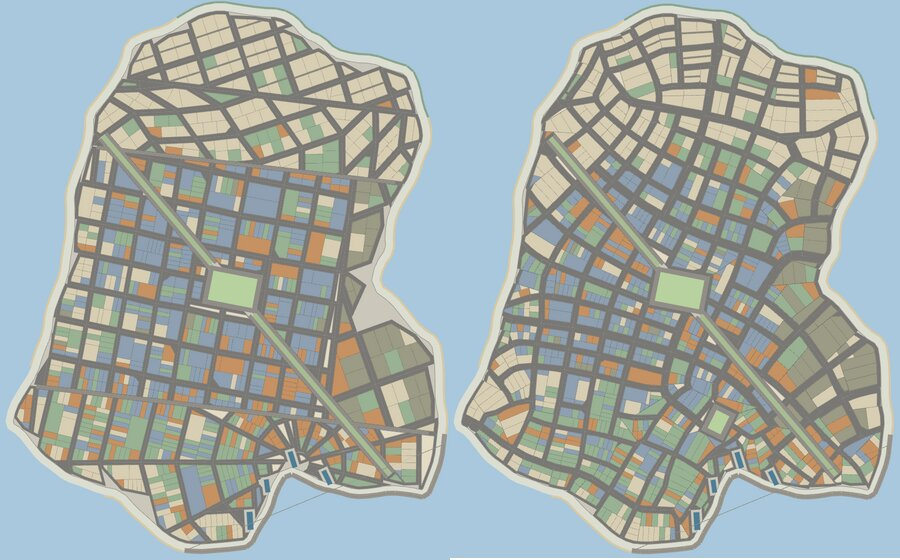
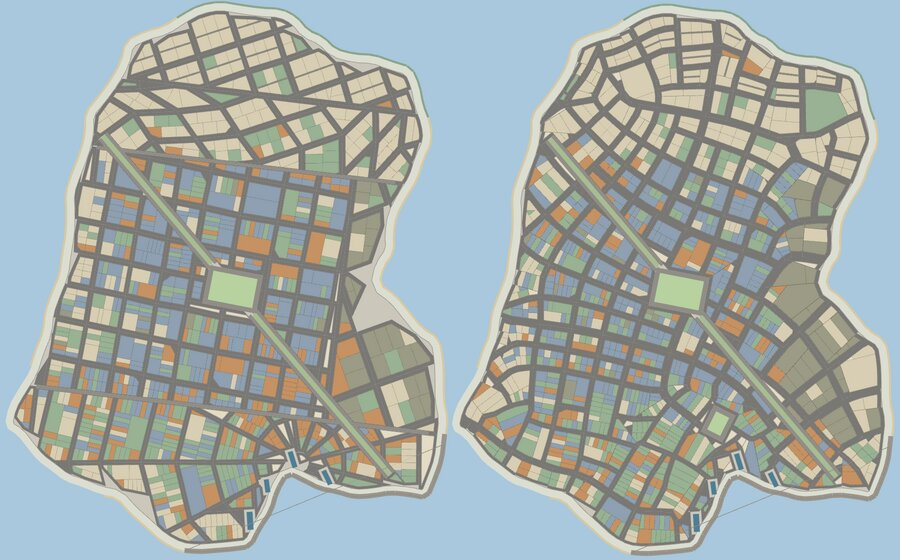
Natural streets: one name per traced street, addresses along it; needle blocks and lots squared off
- each traced street is named once end to end (arterials take the avenue
  names); every lot is addressed on the street it fronts, numbered rising
  away from the landing, odd left / even right, no address repeated;
- a block point under 45 degrees is cut square where 18 m across and paved
  as a traffic island (cell and inset), and a needle lot at a row's slanted
  end merges into its neighbour. Six seeds: natural blocks with a corner
  under 30 degrees 24 -> 0, such lots 57 -> 11 (classic 100).
Classic byte-identical (hash proof re-run).

Claude-Session: https://claude.ai/code/session_01BSvUYUkZGsrMRDvk2r2obY

Changed region(s): [[0.4978, 0.0911, 1.0, 1.0], [0.7778, 0.0304, 0.8089, 0.0607]]

diff --git a/broadway-and-wall/CITYGEN_NEXT_PLAN.md b/broadway-and-wall/CITYGEN_NEXT_PLAN.md
@@ -79,6 +79,16 @@ other planned districts). **Slivers are merged**: a graph face under 40% of the 
 or narrower than 30 m on average is merged into the neighbour it shares the most street
 with (the street between them is not built), never across the shore or a square.
 
+**Street names.** Each traced street is named once, end to end: arterials take the island's
+avenue names, longest first; other streets a name from the pool of the district their
+middle runs through; no name twice. A lot's address is the street its longest kerb-line
+edge faces (else its nearest named street) and a number along it, rising away from the
+landing, two numbers per 2.2 m (a hundred to a ~110 m block), odd left, even right; no
+address repeats. **Needles.** Where streets cross under 45 degrees the block's point is cut
+off square where it is 18 m across and paved as a traffic island (also on the inset, where
+unequal half-streets can make a new point), and a needle lot at the slanted end of a row is
+merged into its neighbour.
+
 **Party lines.** A face too concave to be one convex block is cut into convex pieces only
 because the lot cutter wants convex blocks; the cut is a party line between two halves of
 one block, so it pays no street, and a half whose long side is that line is platted as one
@@ -124,18 +134,21 @@ Seed 481923 "Stancliff Landing":
 
 Measured on the prototype (City size; `tools/platlib.mjs`):
 
-| seed | lots classic | lots natural | change | lot area classic → natural (M sf) |
-|---|---|---|---|---|
-| 2967923640 | 951 | 1030 | +8% | 7.88 → 7.99 (+1%) |
-| 1 | 1453 | 1396 | -4% | 7.33 → 7.99 (+9%) |
-| 20261 | 1384 | 1186 | -14% | 8.71 → 9.34 (+7%) |
-| 555 | 1191 | 1143 | -4% | 7.90 → 8.88 (+12%) |
-| 3252 | 1076 | 1055 | -2% | |
-| 481923 | 999 | 978 | -2% | |
-| 2967923640 Great City | 3876 | 4196 | +8% | |
+| seed | lots classic | lots natural | change |
+|---|---|---|---|
+| 2967923640 | 951 | 1047 | +10% |
+| 1 | 1453 | 1440 | -1% |
+| 20261 | 1384 | 1124 | -19% |
+| 555 | 1191 | 1142 | -4% |
+| 3252 | 1076 | 1048 | -3% |
+| 481923 | 999 | 981 | -2% |
+| 2967923640 Great City | 3876 | 4218 | +9% |
 
-`test/plat.mjs` on its twelve pinned seeds (City): lots 13,257 classic → 12,816 natural
-(-3%); sliver 0% and spikes 0% in both; street share (pavement per unit of block) median
+Sharp corners (interior angle under 30 degrees), six seeds above: natural blocks 24 → 0
+after the needle rule; lots 57 → 11 natural (classic: 100).
+
+`test/plat.mjs` on its twelve pinned seeds (City): lots 13,257 classic → 12,632 natural
+(-5%); sliver 0% and spikes 0% in both; street share (pavement per unit of block) median
 1.61 classic → 1.48 natural; largest unprogrammed void the same (a park apron, 14,943 m2).
 Land use still follows demand: in the top 15% of lots by demand, office is 51% / 40% / 54%
 of lots on seeds 2967923640 / 555 / 1 (classic 44% / 40% / 48%), and the town's office
@@ -176,7 +189,5 @@ at the shore than classic. Generation takes ~1.5x as long (0.8-1.6 s per City is
   (owner's call), so "water crossings" is a no-op today; the field has a creek basis ready.
 - **Small/odd blocks** near converging streets and a wiggly shore; the wedge rule and the
   gore rule already take the worst, sliver % is 0-0.1.
-- **Address/street names** are still drawn per block, as for classic organic quarters, not
-  per traced street (phase 2).
 - **Performance**: ~1.5x generation time; Great City ~2.1 s. Acceptable for the setup preview
   (off-thread) but watched.
